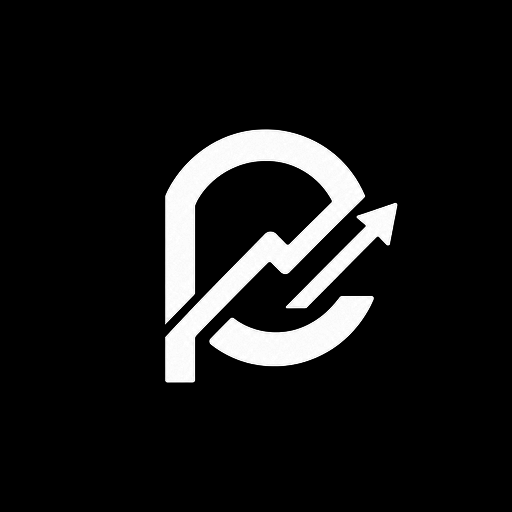
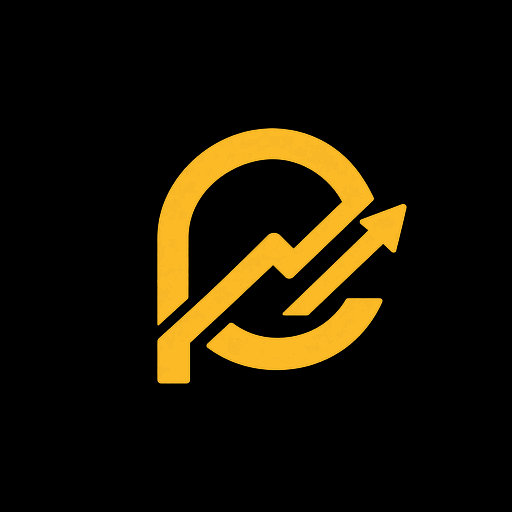
The owner's gold mark and the Persian name, cut from his own files
**The launcher and the store icon are gold now**, and the gold is measured off
the artwork rather than typed in: `#FCBA26`, the modal colour of every pixel
above half brightness in the master. The design tokens carry `#F0B90B`, which
is close and is not the same — and next to the original on a home screen that
is a difference nobody can name and everybody can see.

The mark needed its own derivation. `inked` assumes white ink, so luminance is
coverage; gold weighs 189 rather than 255, and reusing it would have produced a
mark 26% transparent everywhere, which on a black plate reads as muddy brown
and looks like a rendering fault. `golden` divides by the gold's own luminance
and sets the colour flat, so JPEG's colour ringing does not travel into every
edge pixel — invisible at 512, obvious at 48.

**The mark inside the icon went 54 → 50 of 108, and the reason is the artwork,
not the guideline.** The old mark was 626×682, taller than wide, with empty
margin down both sides of its own bounding box, so a box-fitted mark had slack
to spend on the 5% nudge. The new one is 951×975 — near enough square — and
fills its box edge to edge. At 54 plus the nudge the ink reached 88 of 108 at
mdpi: one unit outside the safe zone, invisible on the master and clipped by a
mask on a real launcher, which is exactly what the 72 cut did. At 50 the margin
is back, and because the new artwork is wider it reads at about the size the
old one did at 54. Checked at all five densities.
[…]

Changed region(s): [[0.2812, 0.25, 0.8125, 0.75]]

diff --git a/core/designsystem/src/main/kotlin/com/coinepro/core/designsystem/ProChartBrand.kt b/core/designsystem/src/main/kotlin/com/coinepro/core/designsystem/ProChartBrand.kt
@@ -2,7 +2,8 @@ package com.coinepro.core.designsystem
 
 import androidx.compose.foundation.Image
 import androidx.compose.foundation.layout.Arrangement
-import androidx.compose.foundation.layout.Column
+import androidx.compose.foundation.layout.Row
+import androidx.compose.foundation.layout.size
 import androidx.compose.foundation.layout.width
 import androidx.compose.material3.LocalTextStyle
 import androidx.compose.material3.Text
@@ -23,10 +24,21 @@ import androidx.compose.ui.unit.dp
  *
  * ### One asset per shape, and the colour comes from the theme
  *
- * The artwork the owner supplied is white ink on a black ground. Both are cut by
- * `scripts/design/build-prochart-brand.py` into flat white with the luminance as the alpha channel,
- * which is what makes a single file work everywhere: the shape lives in the alpha, so a tint paints
- * it any colour without a second export, an outline variant or a plate behind it.
+ * The artwork the owner supplied is ink on a black ground — the mark in the brand gold, the name in
+ * white. Both are cut by `scripts/design/build-prochart-brand.py` into flat white with the coverage
+ * as the alpha channel, which is what makes a single file work everywhere: the shape lives in the
+ * alpha, so a tint paints it any colour without a second export, an outline variant or a plate
+ * behind it. The launcher is the one place the gold is baked in, because a home-screen icon has no
+ * theme to follow and there the brand colour *is* the design.
+ *
+ * ### The wordmark is written, so it follows the reader's language
+ *
+ * `drawable-<density>` carries the Persian «پروچارت» and `drawable-en-<density>` the Latin
+ * lockup — the same convention `values/` and `values-en/` already use, applied to the one image
+ * that is also a piece of writing. A single Latin wordmark on a Persian screen was the old
+ * behaviour and it was wrong in a way that is easy to miss from outside the audience: the product's
+ * name in this market is «پروچارت», written, and a reader who has never seen the Latin form does
+ * not recognise it as the name of the app they just opened.
  *
  * That is the whole difference from the brand this replaces. The old wordmark was a bevelled metal
  * raster whose highlights were near white, so on a pale surface half the name disappeared and it
@@ -83,41 +95,84 @@ fun ProChartWordmarkText(
 /** The brand name in Latin, in one place so a rename is one edit. */
 const val PRO_CHART = "Pro CHart"
 
-/*
- * There is deliberately no `ProChartMark` composable.
+/**
+ * The brand name in Persian, which is what almost every reader of this app calls it.
  *
- * The mark on its own had one, and after the lockup stopped stacking it above a wordmark that
- * already contains it, nothing in the app drew it — a public component with no call site, which is
- * the shape of thing this codebase has spent a whole wave deleting. `prochart_mark.png` stays in
- * `res/`, because the launcher's three layers, the Play icon and the README banner are all cut from
- * it by `scripts/design/build-prochart-brand.py`; if a screen ever wants the mark alone, this is
- * four lines coming back.
+ * One word, as the owner's artwork sets it — «پروچارت», not «پرو چارت». It is a proper noun and it
+ * is written the way the logo is written; a space here and none in the logo is the kind of
+ * inconsistency that makes a product look like two products.
  */
+const val PRO_CHART_FA = "پروچارت"
 
 /**
- * The brand at the head of a full-screen surface such as sign-in.
+ * The mark on its own, in the brand gold.
  *
- * The wordmark **and nothing above it**. The supplied artwork already carries the mark to the left
- * of the name, so the mark-over-wordmark stack this used to draw put the same drawing on screen
- * twice — which is how a logo stops reading as a logo and starts reading as a mistake. One asset,
- * one lockup, at a size that fills the space a stack used to.
+ * This was deleted once, correctly, when nothing drew it — a public component with no call site.
+ * It is back because [ProChartLockup] needs it: the owner's lockup is a **two-colour** drawing, the
+ * mark in gold beside the name in white, and a single tinted image cannot be two colours. Composing
+ * the two here instead of shipping a flat raster is also what keeps the light theme working, since
+ * the name follows [CoineProColors.TextPrimary] while the mark stays gold on both grounds.
  *
- * [markSize] is gone with it rather than kept as a parameter nothing reads.
+ * Gold by default and not [CoineProColors.TextPrimary], which is the opposite of [ProChartWordmark]
+ * and deliberate: the name is type and behaves like the heading it sits beside, the mark is a logo
+ * and has a colour of its own.
+ */
+@Composable
+fun ProChartMark(
+    modifier: Modifier = Modifier,
+    contentDescription: String? = null,
+    tint: Color = CoineProColors.Gold,
+) {
+    Image(
+        painter = painterResource(R.drawable.prochart_mark),
+        contentDescription = contentDescription,
+        colorFilter = ColorFilter.tint(tint),
+        modifier = modifier,
+    )
+}
+
+/**
+ * The brand at the head of a full-screen surface such as sign-in: the mark beside the name.
+ *
+ * ### Why a row of two assets rather than one picture of the lockup
+ *
+ * The owner's lockup is two colours — a gold mark and a white name — and one tinted PNG cannot be
+ * two colours. Shipping it flat would work on the dark theme and break on the light one, which is
+ * exactly the fault the brand this replaces had: a raster whose highlights were near white, given a
+ * dark plate to sit on, reading as a sticker on every pale screen.
+ *
+ * Composed, the name follows the theme and the mark keeps its own colour, on both grounds.
+ *
+ * ### The order is the reader's, not the file's
+ *
+ * A `Row` lays its first child at the **start** edge, which is the right in Persian and the left in
+ * English. So the mark leads in both directions without this file naming a side — the same reason
+ * nothing in `CoineProListDetail` says left or right either.
  */
 @Composable
 fun ProChartLockup(
     modifier: Modifier = Modifier,
-    wordmarkWidth: Dp = 240.dp,
+    wordmarkWidth: Dp = 200.dp,
     contentDescription: String? = null,
 ) {
-    Column(
+    Row(
         modifier = modifier,
-        horizontalAlignment = Alignment.CenterHorizontally,
-        verticalArrangement = Arrangement.spacedBy(CoineProSpacing.Two),
+        verticalAlignment = Alignment.CenterVertically,
+        horizontalArrangement = Arrangement.spacedBy(CoineProSpacing.OneHalf),
     ) {
+        // Sized off the wordmark rather than fixed, so the two stay in proportion at whatever width
+        // a caller asks for. 0.34 is the ratio in the owner's own artwork, measured.
+        ProChartMark(
+            modifier = Modifier.size(wordmarkWidth * MARK_TO_WORDMARK),
+            contentDescription = contentDescription,
+        )
         ProChartWordmark(
             modifier = Modifier.width(wordmarkWidth),
-            contentDescription = contentDescription,
+            // Named once. Two content descriptions on one lockup is two announcements of one thing.
+            contentDescription = null,
         )
     }
 }
+
+/** The mark's height as a fraction of the wordmark's width, measured off the owner's lockup. */
+private const val MARK_TO_WORDMARK = 0.34f

diff --git a/scripts/design/build-prochart-brand.py b/scripts/design/build-prochart-brand.py
@@ -21,6 +21,14 @@ The owner also supplied a white-on-white variant. It is not used: it carries the
 usable channel to separate figure from ground, and the derived alpha above already gives a mark that
 can be tinted to anything.
 
+### Which masters this actually reads
+
+`prochart-mark-gold-master.png` (the mark, gold on black), `prochart-wordmark-fa-master.png` (the
+name in Persian, white on black) and `prochart-lockup-master.png` (the Latin lockup, for English).
+`prochart-mark-master.png` and `prochart-mark-light-master.png` are the earlier white artwork and are
+**no longer read** — kept in `design/brand/` because they are the owner's originals and deleting a
+supplied master to tidy a directory is not this script's call to make.
+
 Run:  python3 scripts/design/build-prochart-brand.py
 """
 
@@ -59,10 +67,20 @@ WORDMARK_MDPI = 168
 # and wrong about what a launcher does with them: several mask shapes clip closer than the circle,
 # and a mark sized to the safe zone has nothing left to lose when they do.
 #
-# 54 is 72 less a quarter. It sits comfortably inside 66 on both axes with room for any mask, which
-# is what the guideline asks for and what the two previous values each missed from one side.
+# 54 was 72 less a quarter, and it sat comfortably inside 66 with room for any mask.
+#
+# **It is 50 now, and the reason is the artwork rather than the guideline.** The mark this cuts from
+# used to be 626×682 — noticeably taller than wide, with empty margin down both sides of its own
+# bounding box, so a box-fitted mark had slack to spend on the nudge below. The owner's newer gold
+# mark is 951×975, near enough square, and fills its box edge to edge. At 54 plus the nudge the ink
+# reached 88 of 108 at mdpi, one unit outside the safe zone — invisible on the master and clipped by
+# a mask on a real launcher, which is the exact failure the 72 cut had.
+#
+# 50 restores the margin (about thirteen units at xxxhdpi, three at mdpi) and, because the new
+# artwork is wider, it also reads at about the same optical size the old mark did at 54. Measured,
+# not guessed: `main` prints every cut and the bounds are checked at all five densities.
 LAUNCHER_CANVAS = 432
-LAUNCHER_MARK = int(LAUNCHER_CANVAS * 54 / 108)
+LAUNCHER_MARK = int(LAUNCHER_CANVAS * 50 / 108)
 
 # The mark sits five percent of the icon's width to the **right** of centre.
 #
@@ -79,6 +97,24 @@ LAUNCHER_MARK = int(LAUNCHER_CANVAS * 54 / 108)
 LAUNCHER_NUDGE = 0.05
 
 
+# The brand gold, measured off the owner's own icon rather than typed in.
+#
+# `#FCBA26`, the modal colour of every pixel above half brightness in `prochart-mark-gold-master`.
+# It is close to the `#F0B90B` in the design tokens and it is **not the same**, and the artwork wins
+# on the launcher: an icon whose gold is a shade off the one in the file the owner drew is a
+# difference nobody can name and everybody can see, next to the original, on a home screen.
+#
+# Sampled by hand once and written here rather than recomputed on every run, so that a revision of
+# the artwork that shifts the hue shows up as a diff in this file instead of silently repainting the
+# icon. If the master changes, remeasure and edit this line.
+BRAND_GOLD = (252, 186, 38)
+
+# What [BRAND_GOLD] weighs in PIL's `L` conversion, which is ITU-R 601. Used as the divisor that
+# turns the artwork's luminance into coverage: a fully inked gold pixel has to come out at alpha
+# 255, and dividing by 255 instead would make the whole mark 26% transparent.
+GOLD_LUMA = 0.299 * BRAND_GOLD[0] + 0.587 * BRAND_GOLD[1] + 0.114 * BRAND_GOLD[2]
+
+
 # Below this luminance a pixel is ground, not ink.
 #
 # The masters are rendered artwork, not vector exports, and their "black" is not zero — it runs one
@@ -90,6 +126,18 @@ LAUNCHER_NUDGE = 0.05
 # Eight is high enough to clear the noise floor and far below anything on the anti-aliased edge,
 # which climbs to 255 within a pixel or two. Nothing visible is lost.
 INK_FLOOR = 8
+
+# The same floor for the JPEG masters, which need a higher one.
+#
+# The white-on-black masters are PNGs and their ground is one to three. The owner's newer artwork
+# arrives as JPEG, and JPEG ringing puts a halo of eight to twenty around every hard edge on a black
+# ground — which [INK_FLOOR] would read as ink and the trim would read as the artwork's bounds,
+# giving a mark with a grey fog around it and a crop a dozen pixels too generous on every side.
+#
+# Twenty-four clears the ringing and is far below the anti-aliased edge, which climbs past a hundred
+# within a pixel. Deliberately a separate constant: raising the PNG floor to match would throw away
+# real edge detail on the masters that do not need it.
+JPEG_INK_FLOOR = 24
 
 
 def inked(master: Image.Image) -> Image.Image:
@@ -104,6 +152,47 @@ def inked(master: Image.Image) -> Image.Image:
     alpha = master.convert("L").point(lambda value: 0 if value < INK_FLOOR else value)
     white = Image.new("RGBA", master.size, (255, 255, 255, 255))
     white.putalpha(alpha)
+    return white
+
+
+def inked_jpeg(master: Image.Image) -> Image.Image:
+    """[inked], with the floor a JPEG master needs. See [JPEG_INK_FLOOR]."""
+    alpha = master.convert("L").point(lambda value: 0 if value < JPEG_INK_FLOOR else value)
+    white = Image.new("RGBA", master.size, (255, 255, 255, 255))
+    white.putalpha(alpha)
+    return white
+
+
+def golden(master: Image.Image) -> Image.Image:
+    """Gold artwork on black becomes flat [BRAND_GOLD] with its coverage as the alpha channel.
+
+    The same idea as [inked] and it cannot be the same function. [inked] assumes the ink is white,
+    so luminance *is* coverage; here the ink is gold, whose luminance is 189 rather than 255, and
+    reusing that function would produce a mark 26% transparent everywhere — which on the launcher's
+    black plate reads as a muddy brown and looks like a rendering fault rather than a colour choice.
+
+    So the luminance is divided by the gold's own before it becomes alpha, and the colour is set
+    flat rather than kept from the master. Keeping the master's RGB would carry JPEG's colour
+    ringing into every edge pixel: a fringe of green and magenta a pixel wide, invisible at 512 and
+    obvious at 48.
+    """
+    luma = master.convert("L").point(lambda value: 0 if value < JPEG_INK_FLOOR else value)
+    alpha = luma.point(lambda value: min(255, round(value * 255 / GOLD_LUMA)))
+    gold = Image.new("RGBA", master.size, BRAND_GOLD + (255,))
+    gold.putalpha(alpha)
+    return gold
+
+
+def coverage(image: Image.Image) -> Image.Image:
+    """The same shape in flat white, for the layer a launcher tints itself.
+
+    Android's themed icon paints the monochrome layer in the launcher's own colour, so what it wants
+    is coverage and nothing else. Handing it the gold layer would work — the tint replaces the
+    colour — but it would ship a file whose RGB is a lie about what is drawn, and the next person to
+    open it would reasonably conclude the themed icon is gold.
+    """
+    white = Image.new("RGBA", image.size, (255, 255, 255, 255))
+    white.putalpha(image.getchannel("A"))
     return white
 
 
@@ -143,8 +232,16 @@ def scaled_to_box(image: Image.Image, box: int) -> Image.Image:
 
 
 def main() -> int:
-    mark = trimmed(inked(Image.open(BRAND / "prochart-mark-master.png")))
     lockup = trimmed(inked(Image.open(BRAND / "prochart-lockup-master.png")))
+    # The owner's newer artwork: the mark in the brand gold, and the name set in Persian.
+    gold = trimmed(golden(Image.open(BRAND / "prochart-mark-gold-master.png")))
+    persian = trimmed(inked_jpeg(Image.open(BRAND / "prochart-wordmark-fa-master.png")))
+    # The in-app mark is the launcher's mark with its colour taken off, not a second drawing.
+    #
+    # It used to be cut from `prochart-mark-master.png`, which is the older white artwork. Two
+    # sources for one logo is how a home-screen icon and a sign-in screen end up subtly different —
+    # and nobody reports it, because each looks right on its own. One master, two treatments.
+    mark = coverage(gold)
 
     print("mark:")
     for bucket, factor in DENSITIES.items():
@@ -153,11 +250,28 @@ def main() -> int:
             DESIGNSYSTEM / f"drawable-{bucket}" / "prochart_mark.png",
         )
 
-    print("wordmark:")
+    # The wordmark, in the language the reader is actually in.
+    #
+    # Persian is this app's default locale and `values/` is Persian throughout, so the unqualified
+    # drawable is the Persian one and `drawable-en-*` carries the Latin lockup — the same convention
+    # the strings already use, applied to the one image that is also a piece of writing.
+    #
+    # A single Latin wordmark on a Persian screen was the old behaviour and it was wrong in a way
+    # that is easy to miss from outside the audience: the product's name in this market is «پروچارت»,
+    # written, and a reader who has never seen the Latin form does not recognise it as the name of
+    # the app they opened.
+    print("wordmark (fa, default):")
+    for bucket, factor in DENSITIES.items():
+        write(
+            scaled_to_width(persian, round(WORDMARK_MDPI * factor)),
+            DESIGNSYSTEM / f"drawable-{bucket}" / "prochart_wordmark.png",
+        )
+
+    print("wordmark (en):")
     for bucket, factor in DENSITIES.items():
         write(
             scaled_to_width(lockup, round(WORDMARK_MDPI * factor)),
-            DESIGNSYSTEM / f"drawable-{bucket}" / "prochart_wordmark.png",
+            DESIGNSYSTEM / f"drawable-en-{bucket}" / "prochart_wordmark.png",
         )
 
     # The launcher, in three layers.
@@ -169,7 +283,10 @@ def main() -> int:
     print("launcher:")
     ground = Image.new("RGBA", (LAUNCHER_CANVAS, LAUNCHER_CANVAS), (0, 0, 0, 255))
     foreground = Image.new("RGBA", (LAUNCHER_CANVAS, LAUNCHER_CANVAS), (0, 0, 0, 0))
-    centred = scaled_to_box(mark, LAUNCHER_MARK)
+    # The **gold** mark on the launcher, which is the owner's own icon rather than a tint of ours.
+    # In the app the mark stays white coverage so a screen can paint it whatever the theme asks for;
+    # a launcher icon has no theme to follow and is the one place the brand colour is the design.
+    centred = scaled_to_box(gold, LAUNCHER_MARK)
     offset = (LAUNCHER_CANVAS - LAUNCHER_MARK) // 2
     nudge = round(LAUNCHER_CANVAS * LAUNCHER_NUDGE)
     foreground.paste(centred, (offset + nudge, offset), centred)
@@ -177,9 +294,13 @@ def main() -> int:
         side = round(108 * factor)
         write(ground.resize((side, side), Image.LANCZOS), APP_RES / f"mipmap-{bucket}" / "ic_launcher_background.png")
         write(foreground.resize((side, side), Image.LANCZOS), APP_RES / f"mipmap-{bucket}" / "ic_launcher_foreground.png")
-        # Themed icons are tinted by the launcher, so the layer supplies coverage only. The same
-        # white mark is already exactly that: opaque where the ink is, transparent everywhere else.
-        write(foreground.resize((side, side), Image.LANCZOS), APP_RES / f"mipmap-{bucket}" / "ic_launcher_monochrome.png")
+        # Themed icons are tinted by the launcher, so the layer supplies coverage only — see
+        # [coverage]. The same shape as the gold foreground, in flat white, so nothing downstream
+        # has to know that the layer beside it happens to be gold.
+        write(
+            coverage(foreground).resize((side, side), Image.LANCZOS),
+            APP_RES / f"mipmap-{bucket}" / "ic_launcher_monochrome.png",
+        )
 
     # The Play listing wants one flat 512 square with no transparency at all — an alpha channel is
     # rejected at upload — so this is the only place the black ground is baked in.
@@ -188,7 +309,7 @@ def main() -> int:
     # The same proportion the launcher uses, so the store icon and the one on the home screen are
     # the same drawing at two sizes rather than two different logos.
     play_side = round(512 * 54 / 108)
-    play_mark = scaled_to_box(mark, play_side)
+    play_mark = scaled_to_box(gold, play_side)
     # The same nudge, in the same proportion. The store icon and the one on the home screen have to
     # be the same drawing at two sizes; moving one and not the other would make them two logos.
     play_nudge = round(512 * LAUNCHER_NUDGE)
